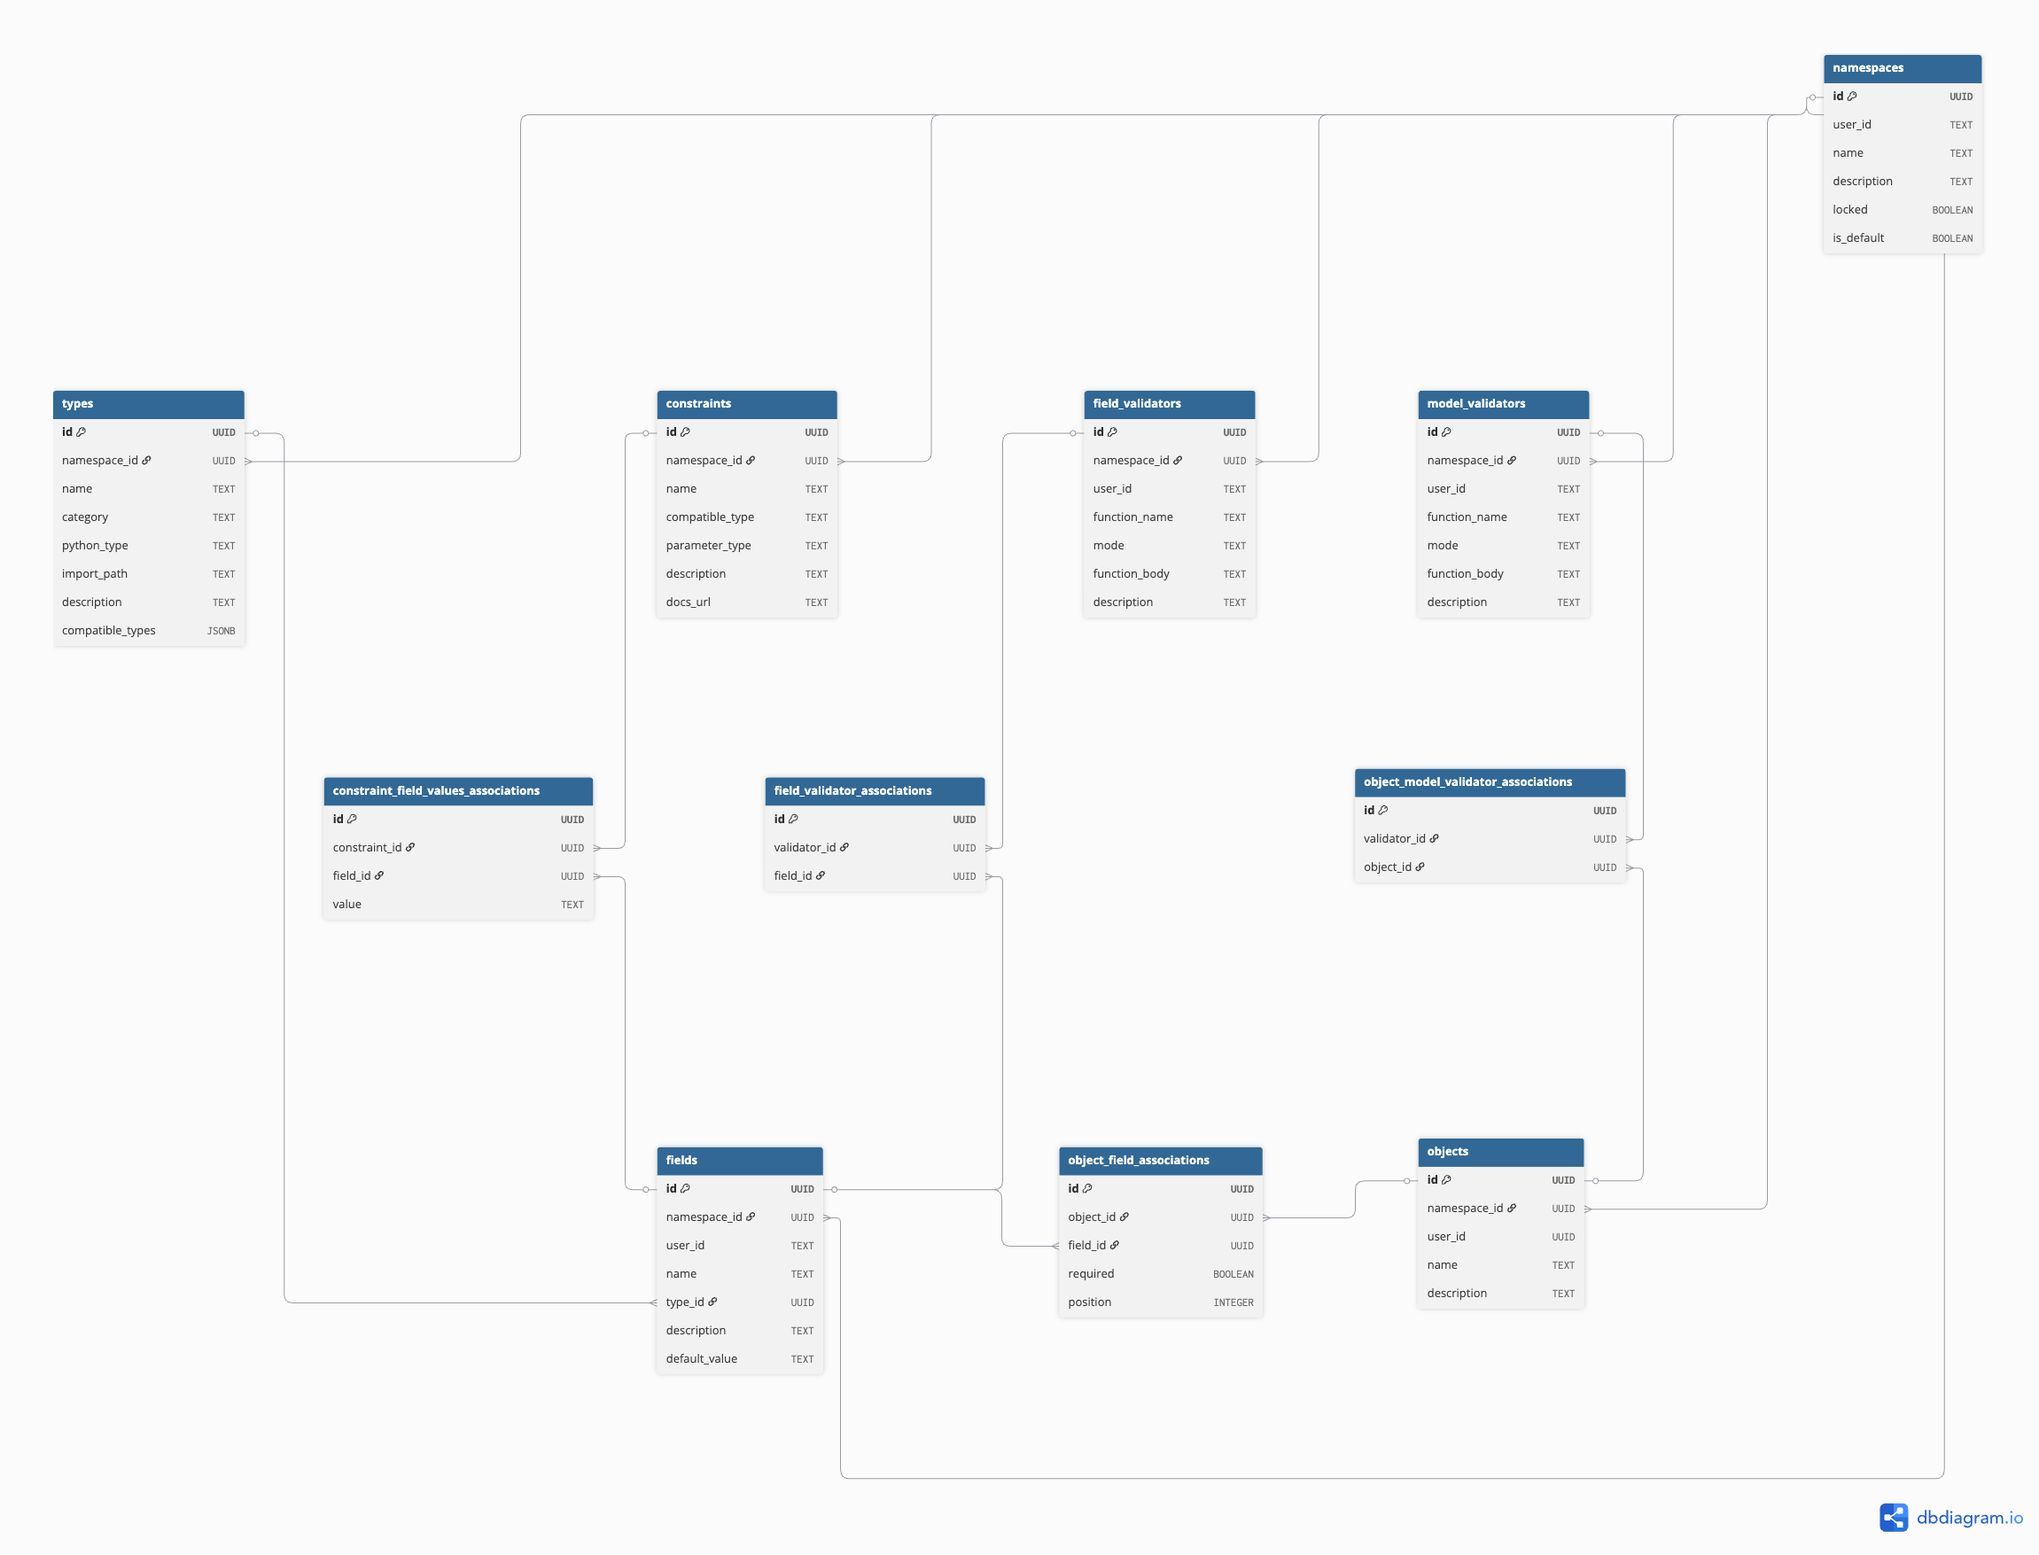
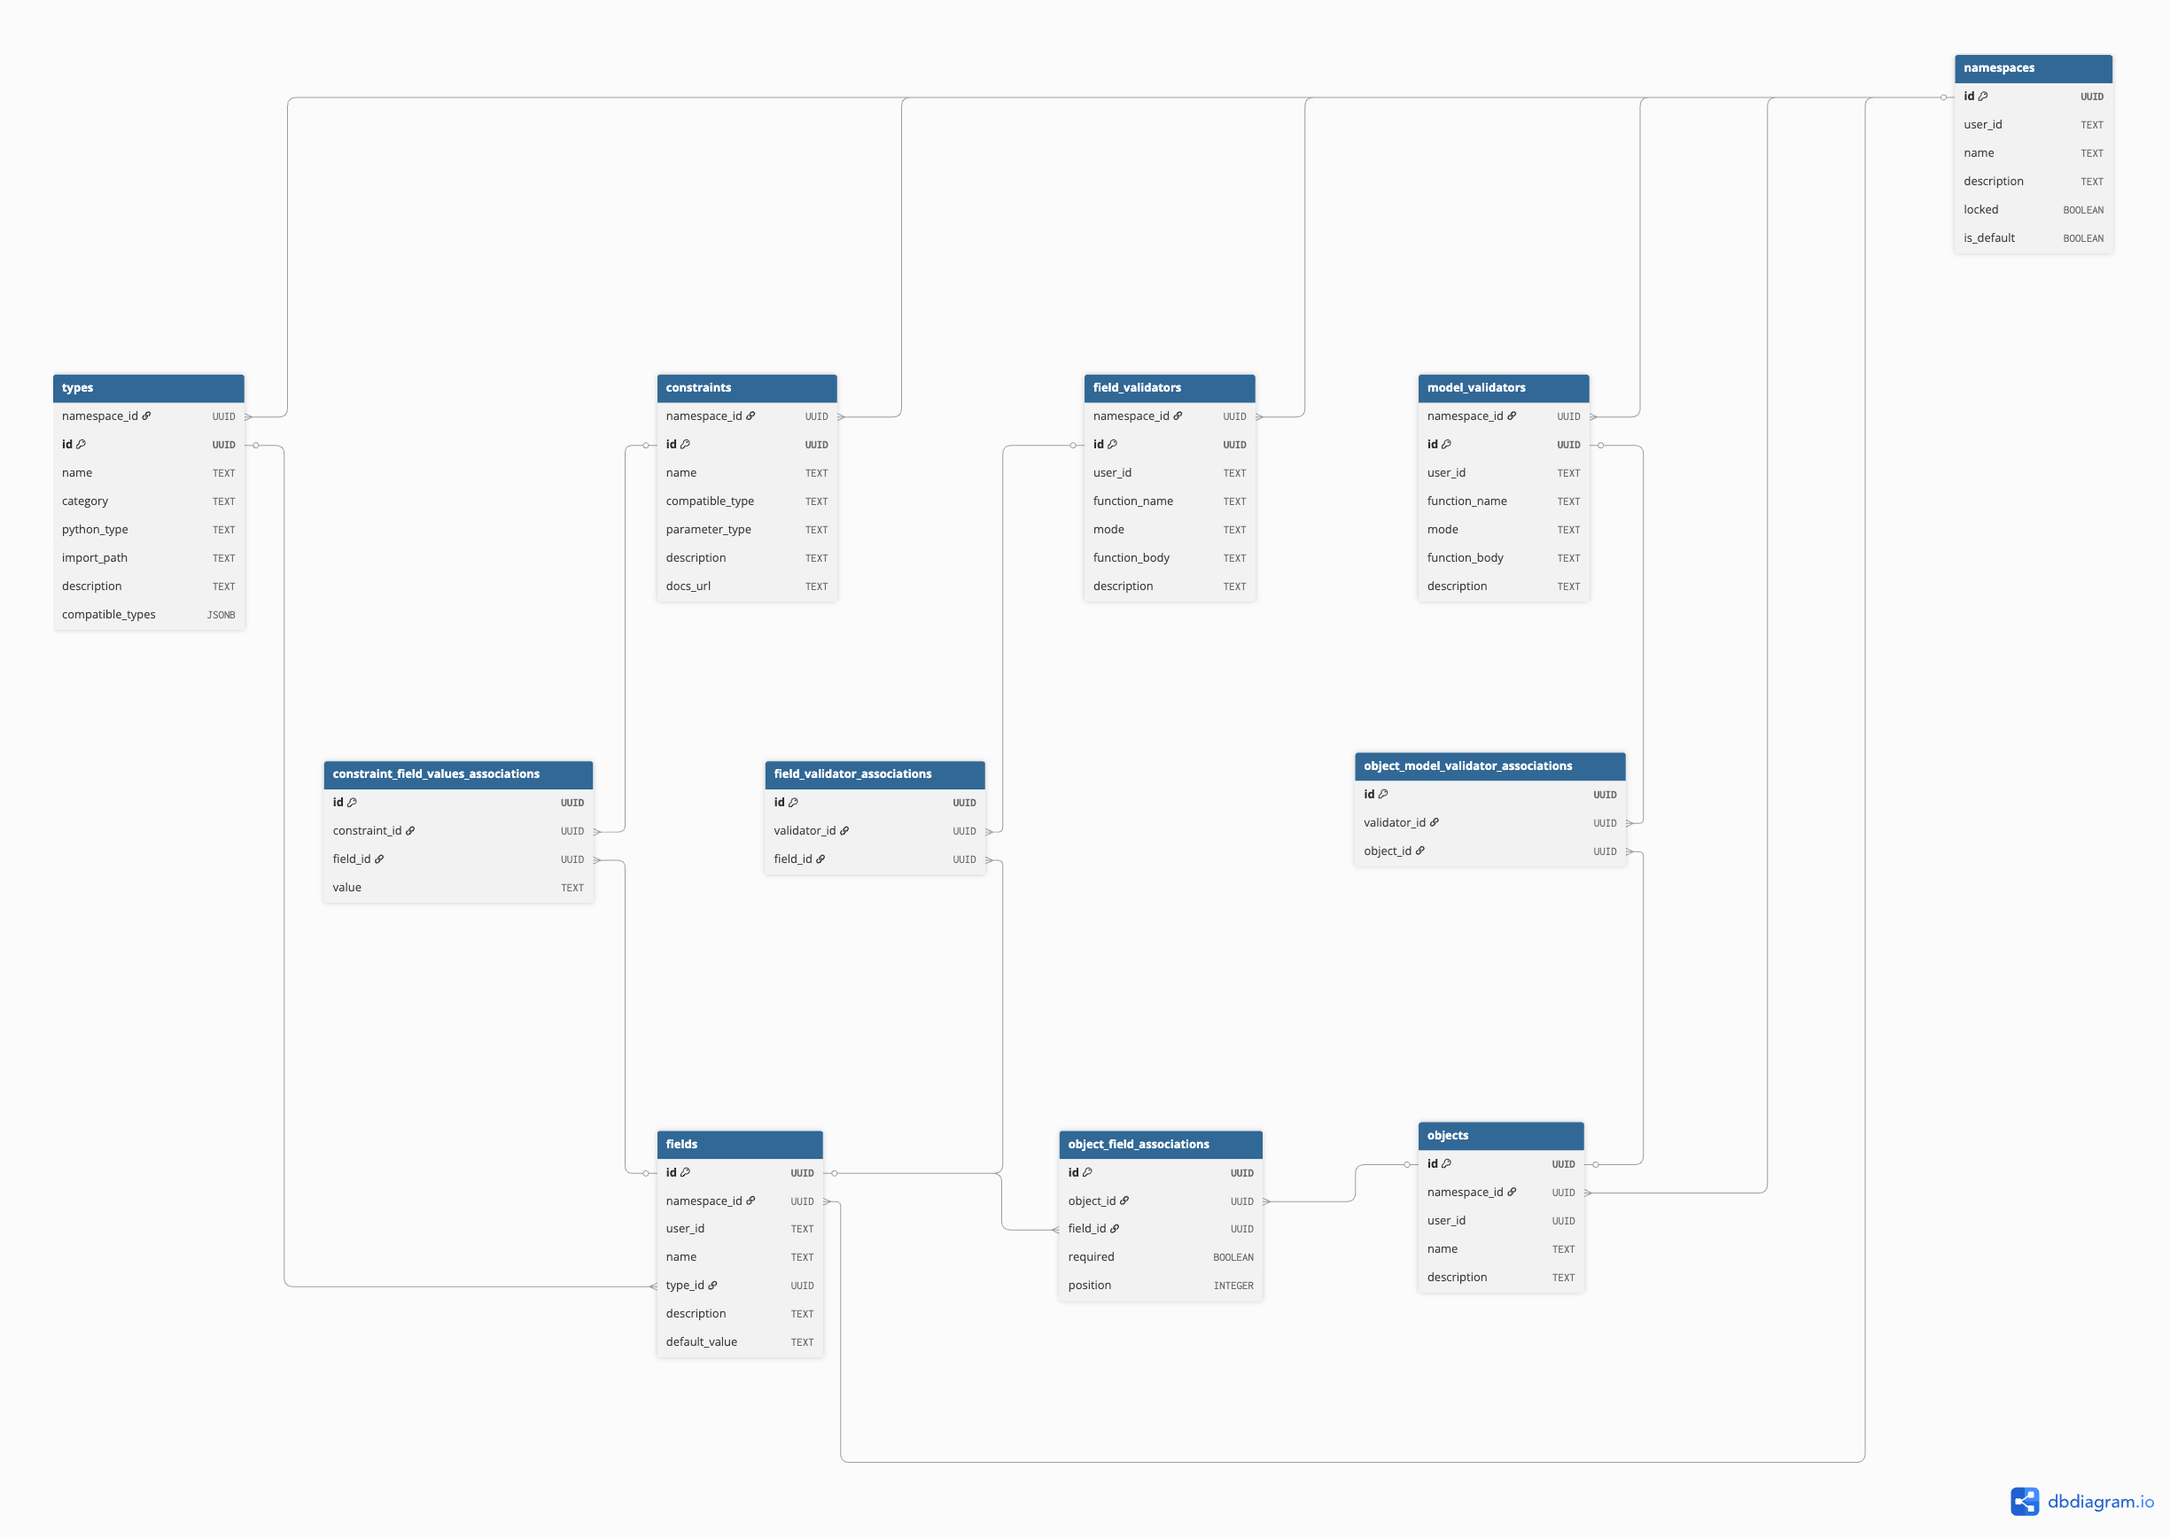
fix(docs): update COOLIFY_DEPLOYMENT.md for clarity and accuracy
- Revised sections for configuring DNS and setting up environments to improve clarity and ensure accurate instructions for both development and production setups.
- Adjusted the naming conventions in the documentation to reflect the correct environment settings and database configurations.
- Updated the diagram file to enhance visual representation of the database structure.

**Verification**: Ensure the updated documentation is clear and accurately guides users through the deployment process.

diff --git a/backend/docs/COOLIFY_DEPLOYMENT.md b/backend/docs/COOLIFY_DEPLOYMENT.md
@@ -11,9 +11,9 @@ Deploy the Median Code Backend to a self-hosted Coolify instance on a Digital Oc
 ├─────────────────────────────────────────────────────────────────────────────┤
 │                                                                             │
 │  ┌──────────────────────────────────────────────────────────────────────┐   │
-│  │  Coolify (Management UI)              coolify.mediancode.com        │   │
-│  │  ├── Traefik (Reverse Proxy + Auto SSL via Let's Encrypt)           │   │
-│  │  └── Docker Engine                                                  │   │
+│  │  Coolify (Management UI)              coolify.mediancode.com         │   │
+│  │  ├── Traefik (Reverse Proxy + Auto SSL via Let's Encrypt)            │   │
+│  │  └── Docker Engine                                                   │   │
 │  └──────────────────────────────────────────────────────────────────────┘   │
 │                                                                             │
 │  ┌─────────────────────────────────┐  ┌─────────────────────────────────┐   │
@@ -138,13 +138,11 @@ After installation, Coolify will display your access URL and recommend backing u
 
 ---
 
-## Step 6: Configure DNS
+## Step 6: Configure DNS for Coolify
 
-In your DNS provider (Cloudflare, Namecheap, etc.), add A records pointing to your droplet IP:
+In your DNS provider (Cloudflare, Namecheap, etc.), add an A record for the Coolify dashboard:
 
 ```
-Type: A    Name: api          Value: <droplet-ip>    TTL: Auto
-Type: A    Name: dev.api      Value: <droplet-ip>    TTL: Auto
 Type: A    Name: coolify      Value: <droplet-ip>    TTL: Auto
 ```
 
@@ -177,21 +175,27 @@ Then in Coolify **Settings > General**, set the instance FQDN to `https://coolif
 
 ---
 
-## Step 9: Set Up Production Environment
+## Step 9: Set Up Development Environment
 
-Select the **production** environment, then add resources.
+### 9a. Configure DNS for Development
 
-> **Recommended**: Set up development first to validate the configuration, then repeat for production. See Step 10 for dev-specific values.
+In your DNS provider, add an A record for the dev API:
 
-### 9a. Add PostgreSQL Database
+```
+Type: A    Name: dev.api      Value: <droplet-ip>    TTL: Auto
+```
+
+### 9b. Add PostgreSQL Database
+
+Select the **development** environment, then:
 
 1. Click **Add Resource** > **Database** > **PostgreSQL**
 2. Configure on the **General** tab:
 
 | Field              | Value                    |
 | ------------------ | ------------------------ |
-| **Name**           | `median-code-prod-db` (or `median-code-dev-db` for development) |
-| **Description**    | `Production database for Median Code Backend` |
+| **Name**           | `median-code-dev-db`     |
+| **Description**    | `Development database for Median Code Backend` |
 | **Image**          | `postgres:17-alpine` (latest stable) |
 | **Username**       | `postgres` (default, leave as-is) |
 | **Password**       | Keep the auto-generated strong password |
@@ -201,25 +205,25 @@ Select the **production** environment, then add resources.
 4. Click **Save**, then **Start**
 5. Once running, copy the **Postgres URL (internal)** — you'll need it for the app config
 
-### 9b. Add Backend Application
+### 9c. Add Backend Application
 
-1. Go back to the environment and click **Add Resource**
+1. Go back to the development environment and click **Add Resource**
 2. Under **Git Based**, select **Private Repository (with GitHub App)**
 3. Select your GitHub source and the `median-code-backend` repository
-4. Set **Branch**: `main`
+4. Set **Branch**: `develop`
 5. **Build Pack**: `Dockerfile` (should be auto-detected)
 6. Click **Save**
 
-### 9c. Configure Application Settings
+### 9d. Configure Application Settings
 
 In the application resource, go to **General** tab:
 
 | Field                  | Value                                        |
 | ---------------------- | -------------------------------------------- |
-| **Name**               | `median-code-prod-api` (or `median-code-dev-api` for development) |
-| **Description**        | `Production API for Median Code Backend`     |
+| **Name**               | `median-code-dev-api`                        |
+| **Description**        | `Development API for Median Code Backend`    |
 | **Build Pack**         | `Dockerfile`                                 |
-| **Domains**            | `https://api.mediancode.com` (or leave the auto-generated sslip.io URL for initial testing) |
+| **Domains**            | `https://dev.api.mediancode.com` (or leave the auto-generated sslip.io URL for initial testing) |
 | **Ports Exposes**      | `8080`                                       |
 | **Port Mappings**      | Clear/empty (delete any default like `3000:3000`) |
 | **Base Directory**     | `/`                                          |
@@ -229,15 +233,15 @@ Go to **Environment Variables** tab and add:
 
 | Variable               | Value                                        | Notes                           |
 | ---------------------- | -------------------------------------------- | ------------------------------- |
-| `DATABASE_URL`         | *(Postgres URL (internal) from step 9a)*     | Postgres connection string      |
-| `ENVIRONMENT`          | `production`                                 |                                 |
-| `CLERK_FRONTEND_API_URL` | `https://your-prod-clerk.clerk.accounts.dev` | From Clerk dashboard          |
-| `FRONTEND_URL`         | `https://mediancode.com`                     | For CORS                        |
+| `DATABASE_URL`         | *(Postgres URL (internal) from step 9b)*     | Postgres connection string      |
+| `ENVIRONMENT`          | `development`                                |                                 |
+| `CLERK_FRONTEND_API_URL` | `https://accurate-lion-1.clerk.accounts.dev` | From Clerk dashboard (dev)    |
+| `FRONTEND_URL`         | `https://dev.mediancode.com`                 | For CORS                        |
 | `GLOBAL_NAMESPACE_ID`  | `00000000-0000-0000-0000-000000000001`       | Global namespace UUID           |
 
 > **Note**: Do NOT add `PORT` — the Dockerfile sets `ENV PORT=8080` as default. Do NOT add `PYTHONPATH` — the Dockerfile handles this.
 
-### 9d. Database Migrations
+### 9e. Database Migrations
 
 Coolify v4 does not have a pre-deploy command feature. Instead, migrations are handled in the Dockerfile `CMD`:
 
@@ -247,7 +251,7 @@ CMD alembic -c alembic.ini upgrade head && uvicorn api.main:app --host 0.0.0.0 -
 
 This runs `alembic upgrade head` before starting the server on every deployment. No additional configuration needed in Coolify.
 
-### 9e. Configure Health Check
+### 9f. Configure Health Check
 
 Go to the **Healthcheck** tab:
 
@@ -266,7 +270,7 @@ Go to the **Healthcheck** tab:
 
 Click **Enable Healthcheck**, then **Save**.
 
-### 9f. Verify Advanced Settings
+### 9g. Verify Advanced Settings
 
 Go to the **Advanced** tab. The defaults are fine — verify these are checked:
 
@@ -274,41 +278,130 @@ Go to the **Advanced** tab. The defaults are fine — verify these are checked:
 - **Force Https**: Checked
 - **Enable Gzip Compression**: Checked
 
-### 9g. Deploy
+### 9h. Deploy and Verify
 
 Click **Deploy** (top right) and monitor the build logs under the **Deployments** tab.
 
----
-
-## Step 10: Set Up Development Environment
-
-Switch to the **development** environment and repeat Step 9 with these differences:
-
-| Setting                  | Development Value                              |
-| ------------------------ | ---------------------------------------------- |
-| Database Name            | `median-code-dev-db`                           |
-| App Name                 | `median-code-dev-api`                          |
-| Branch                   | `develop`                                      |
-| Domain                   | `https://dev.api.mediancode.com` (or use the auto-generated sslip.io URL for testing) |
-| `DATABASE_URL`           | *(Postgres URL (internal) of the dev database)* |
-| `ENVIRONMENT`            | `development`                                  |
-| `CLERK_FRONTEND_API_URL` | *(your dev Clerk Frontend API URL)*            |
-| `FRONTEND_URL`           | `https://dev.mediancode.com`                   |
-| `GLOBAL_NAMESPACE_ID`    | `00000000-0000-0000-0000-000000000001`         |
-
-Everything else (Dockerfile location, ports, health check, advanced settings) is identical to production.
-
----
-
-## Step 11: Verify Deployments
+Once deployed, verify:
 
 ```bash
-# Test production
-curl https://api.mediancode.com/health
-# Expected: {"status":"healthy"}
-
-# Test development
 curl https://dev.api.mediancode.com/health
+# Expected: {"status":"healthy"}
+```
+
+---
+
+## Step 10: Set Up Production Environment
+
+### 10a. Configure DNS for Production
+
+In your DNS provider, add an A record for the production API:
+
+```
+Type: A    Name: api          Value: <droplet-ip>    TTL: Auto
+```
+
+### 10b. Add PostgreSQL Database
+
+Select the **production** environment, then:
+
+1. Click **Add Resource** > **Database** > **PostgreSQL**
+2. Configure on the **General** tab:
+
+| Field              | Value                    |
+| ------------------ | ------------------------ |
+| **Name**           | `median-code-prod-db`    |
+| **Description**    | `Production database for Median Code Backend` |
+| **Image**          | `postgres:17-alpine` (latest stable) |
+| **Username**       | `postgres` (default, leave as-is) |
+| **Password**       | Keep the auto-generated strong password |
+| **Initial Database** | `median_code` |
+
+3. **Make it publicly available**: Leave unchecked unless you need to connect from a local DB client (DBeaver, TablePlus, etc.). You can access the database via Coolify's built-in **Terminal** tab without public access.
+4. Click **Save**, then **Start**
+5. Once running, copy the **Postgres URL (internal)** — you'll need it for the app config
+
+### 10c. Add Backend Application
+
+1. Go back to the production environment and click **Add Resource**
+2. Under **Git Based**, select **Private Repository (with GitHub App)**
+3. Select your GitHub source and the `median-code-backend` repository
+4. Set **Branch**: `main`
+5. **Build Pack**: `Dockerfile` (should be auto-detected)
+6. Click **Save**
+
+### 10d. Configure Application Settings
+
+In the application resource, go to **General** tab:
+
+| Field                  | Value                                        |
+| ---------------------- | -------------------------------------------- |
+| **Name**               | `median-code-prod-api`                       |
+| **Description**        | `Production API for Median Code Backend`     |
+| **Build Pack**         | `Dockerfile`                                 |
+| **Domains**            | `https://api.mediancode.com` (or leave the auto-generated sslip.io URL for initial testing) |
+| **Ports Exposes**      | `8080`                                       |
+| **Port Mappings**      | Clear/empty (delete any default like `3000:3000`) |
+| **Base Directory**     | `/`                                          |
+| **Dockerfile Location**| `/Dockerfile`                                |
+
+Go to **Environment Variables** tab and add:
+
+| Variable               | Value                                        | Notes                           |
+| ---------------------- | -------------------------------------------- | ------------------------------- |
+| `DATABASE_URL`         | *(Postgres URL (internal) from step 10b)*    | Postgres connection string      |
+| `ENVIRONMENT`          | `production`                                 |                                 |
+| `CLERK_FRONTEND_API_URL` | `https://clerk.mediancode.com`             | From Clerk dashboard (prod)     |
+| `FRONTEND_URL`         | `https://mediancode.com`                     | For CORS                        |
+| `GLOBAL_NAMESPACE_ID`  | `00000000-0000-0000-0000-000000000001`       | Global namespace UUID           |
+
+> **Note**: Do NOT add `PORT` — the Dockerfile sets `ENV PORT=8080` as default. Do NOT add `PYTHONPATH` — the Dockerfile handles this.
+
+### 10e. Database Migrations
+
+Coolify v4 does not have a pre-deploy command feature. Instead, migrations are handled in the Dockerfile `CMD`:
+
+```dockerfile
+CMD alembic -c alembic.ini upgrade head && uvicorn api.main:app --host 0.0.0.0 --port $PORT
+```
+
+This runs `alembic upgrade head` before starting the server on every deployment. No additional configuration needed in Coolify.
+
+### 10f. Configure Health Check
+
+Go to the **Healthcheck** tab:
+
+| Field              | Value       |
+| ------------------ | ----------- |
+| **Method**         | `GET`       |
+| **Scheme**         | `http`      |
+| **Host**           | `localhost` |
+| **Port**           | `8080`      |
+| **Path**           | `/health`   |
+| **Return Code**    | `200`       |
+| **Interval (s)**   | `30`        |
+| **Timeout (s)**    | `5`         |
+| **Retries**        | `10`        |
+| **Start Period (s)** | `5`       |
+
+Click **Enable Healthcheck**, then **Save**.
+
+### 10g. Verify Advanced Settings
+
+Go to the **Advanced** tab. The defaults are fine — verify these are checked:
+
+- **Auto Deploy**: Checked (enables auto-deploy on push)
+- **Force Https**: Checked
+- **Enable Gzip Compression**: Checked
+
+### 10h. Deploy and Verify
+
+Click **Deploy** (top right) and monitor the build logs under the **Deployments** tab.
+
+Once deployed, verify:
+
+```bash
+curl https://api.mediancode.com/health
 # Expected: {"status":"healthy"}
 ```
 
